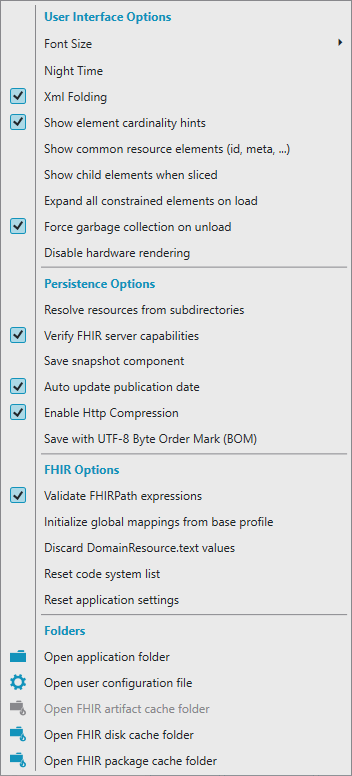
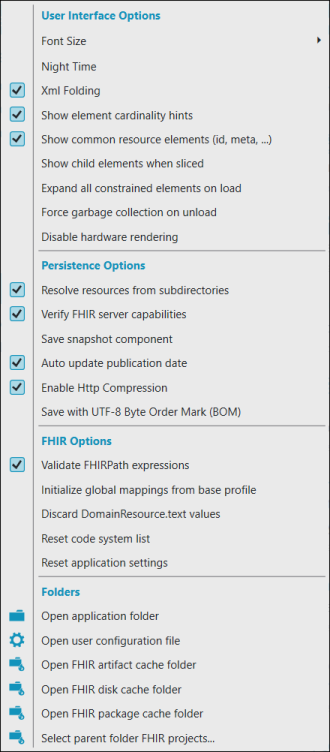
Processed comments from Lillian

diff --git a/features/IntegrationwithSimplifier.md b/features/IntegrationwithSimplifier.md
@@ -5,6 +5,22 @@ The documentation for the platform can be found [here](https://docs.fire.ly/proj
 
 Forge can synchronize the project files in your local folder with the files in your project on Simplifier.
 
+![Start panel](../images/SyncStartPanel.png)
+
+The following menu and toolbar options have been added:
+* ![Create a FHIR Project on Simplifier](../images/SyncIconCreate.png)
+Create a FHIR Project on Simplifier
+* ![Open a FHIR Project from Simplifier](../images/SyncIconOpen.png)
+Open a FHIR Project from Simplifier / Link to a FHIR Project on Simplifier
+* ![Synchronize a FHIR Project with Simplifier](../images/SyncIconSync.png)
+Synchronize a FHIR Project with Simplifier
+
+The `Project` tab contains a new toolbar with additional Simplifier options.
+
+![Project tab](../images/SyncProjectToolbar.png)
+
+The following paragraphs describe the options in more detail.
+
 ## Create a FHIR Project on Simplifer
 
 When starting a new project, you first have to create a project on Simplifier.
@@ -13,8 +29,8 @@ to the Simplifier **Create project** page using one of the following options:
 * Click `Create FHIR Project on Simplifier.net...` in one of the following places:
 
   - File menu
-  - Start panel
-  - Session panel
+  - Start panel  
+  - Session panel  
 * Click `Create...` in the Simplifier toolbar in the Project tab:  
 ![Simplifier toolbar commands](../images/LinkToolbar.png)
 
@@ -32,7 +48,8 @@ Enter you project details on Simplifier and click `Create`.
 
 
 The first time you do this you have to select the parent folder for your FHIR projects.
-Forge will remember the parent folder you selected but you can change it at any time.
+Forge will remember the parent folder you selected but you can change it at any time by opening 
+the `Options` and selecting the menu item `Select parent folder FHIR projects...`.
 
 ![Select FHIR parent folder](../images/SyncParentFolderSelection.png)
 
